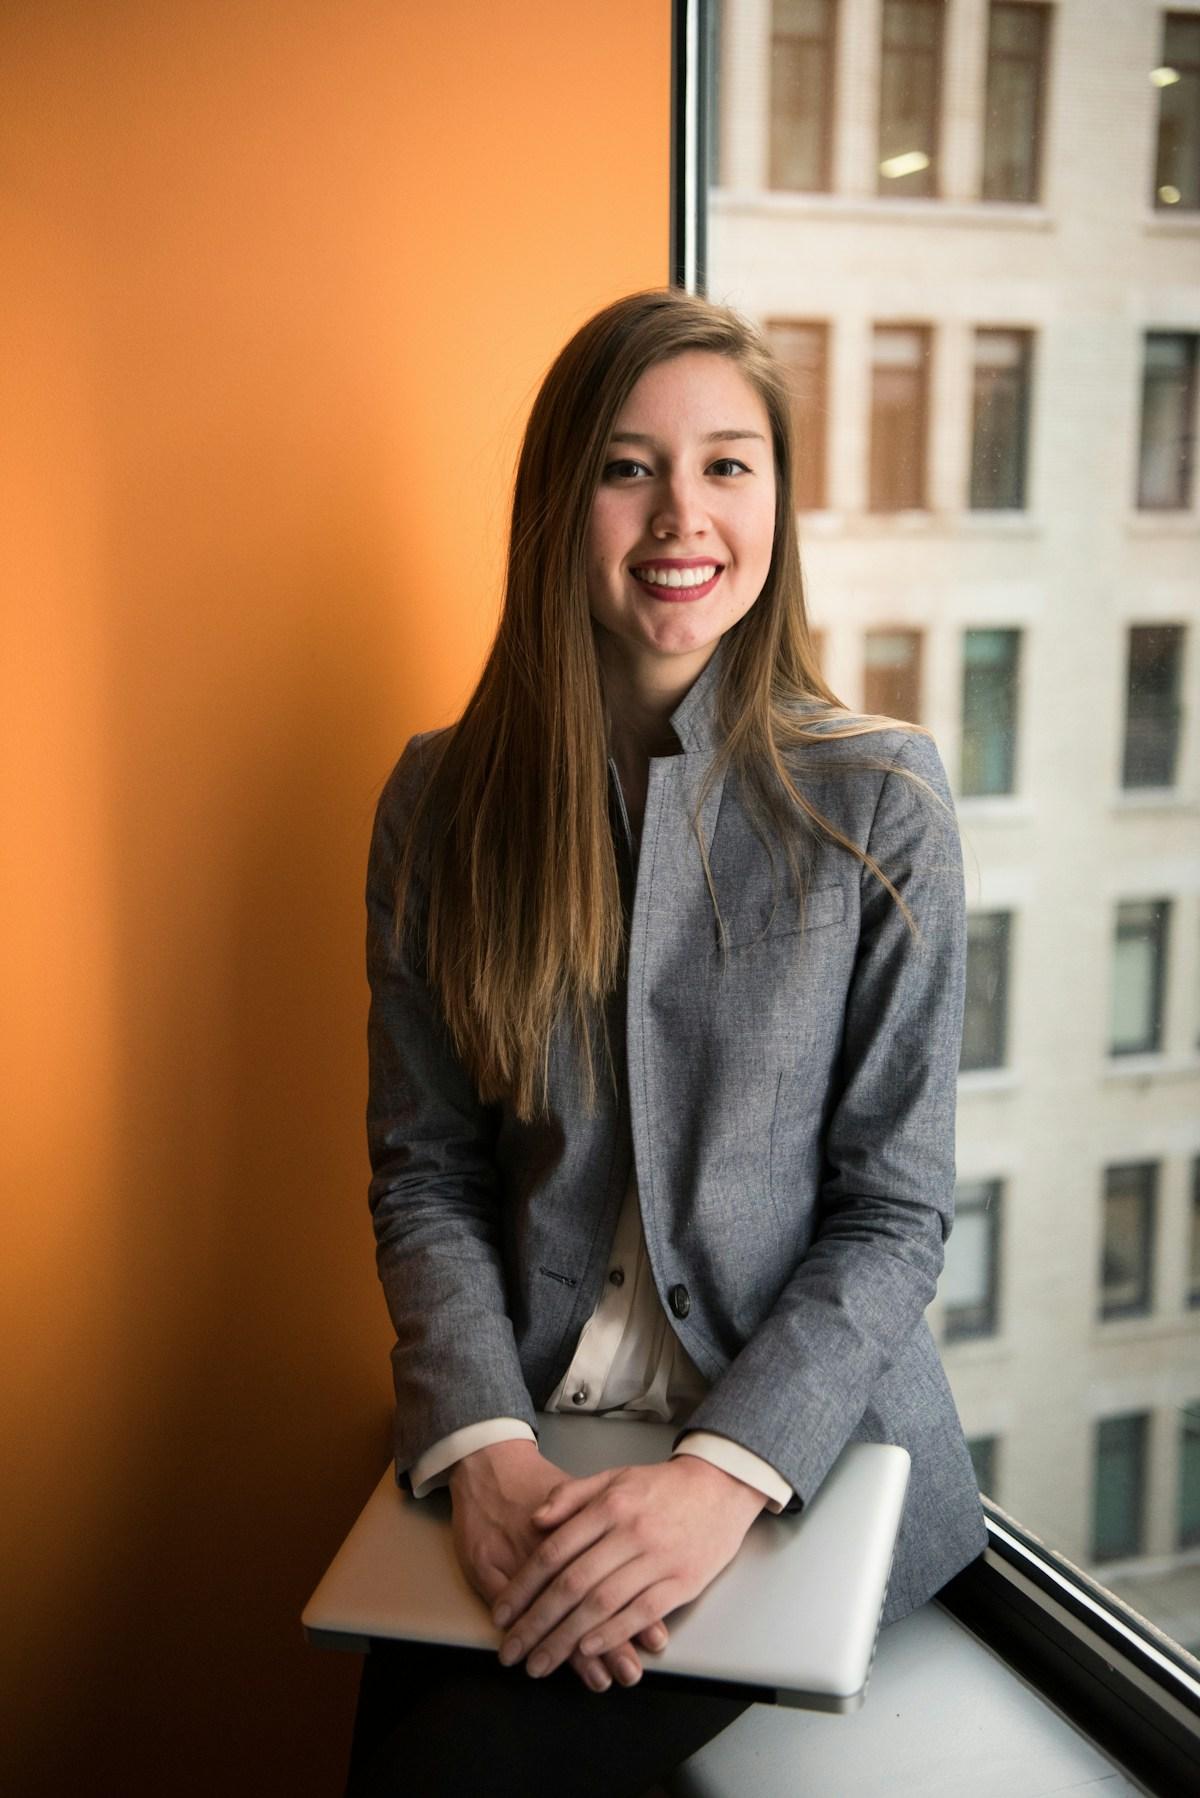
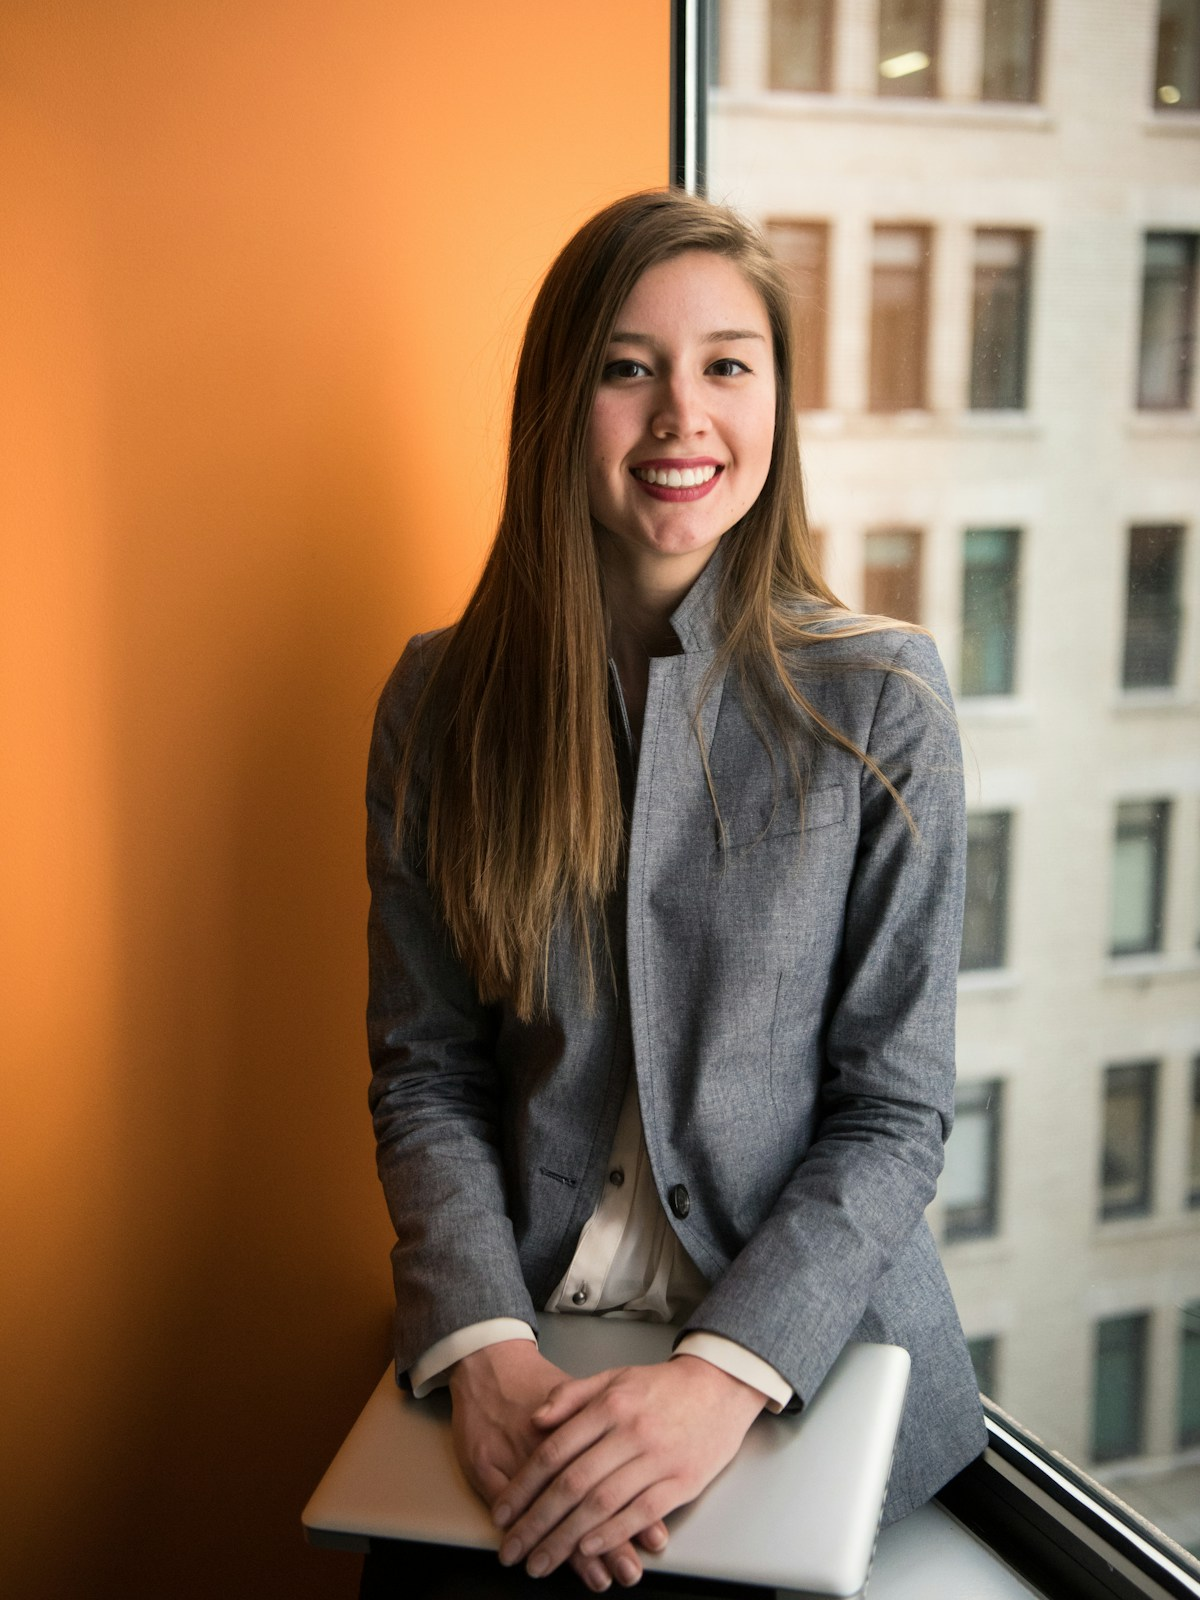
feat(values): replace compassionate card image with new professional clinical photo and update typography

diff --git a/src/app/addons.css b/src/app/addons.css
@@ -2841,6 +2841,10 @@
 
 .values-story-section.section-dark .values-story-intro h2 {
   color: #ffffff !important;
+  font-family: var(--font-sans), Arial, "Helvetica Neue", Helvetica, sans-serif !important;
+  font-weight: 750 !important;
+  letter-spacing: -0.03em !important;
+  text-shadow: none !important;
 }
 
 .values-story-section.section-dark .values-story-steps button {
